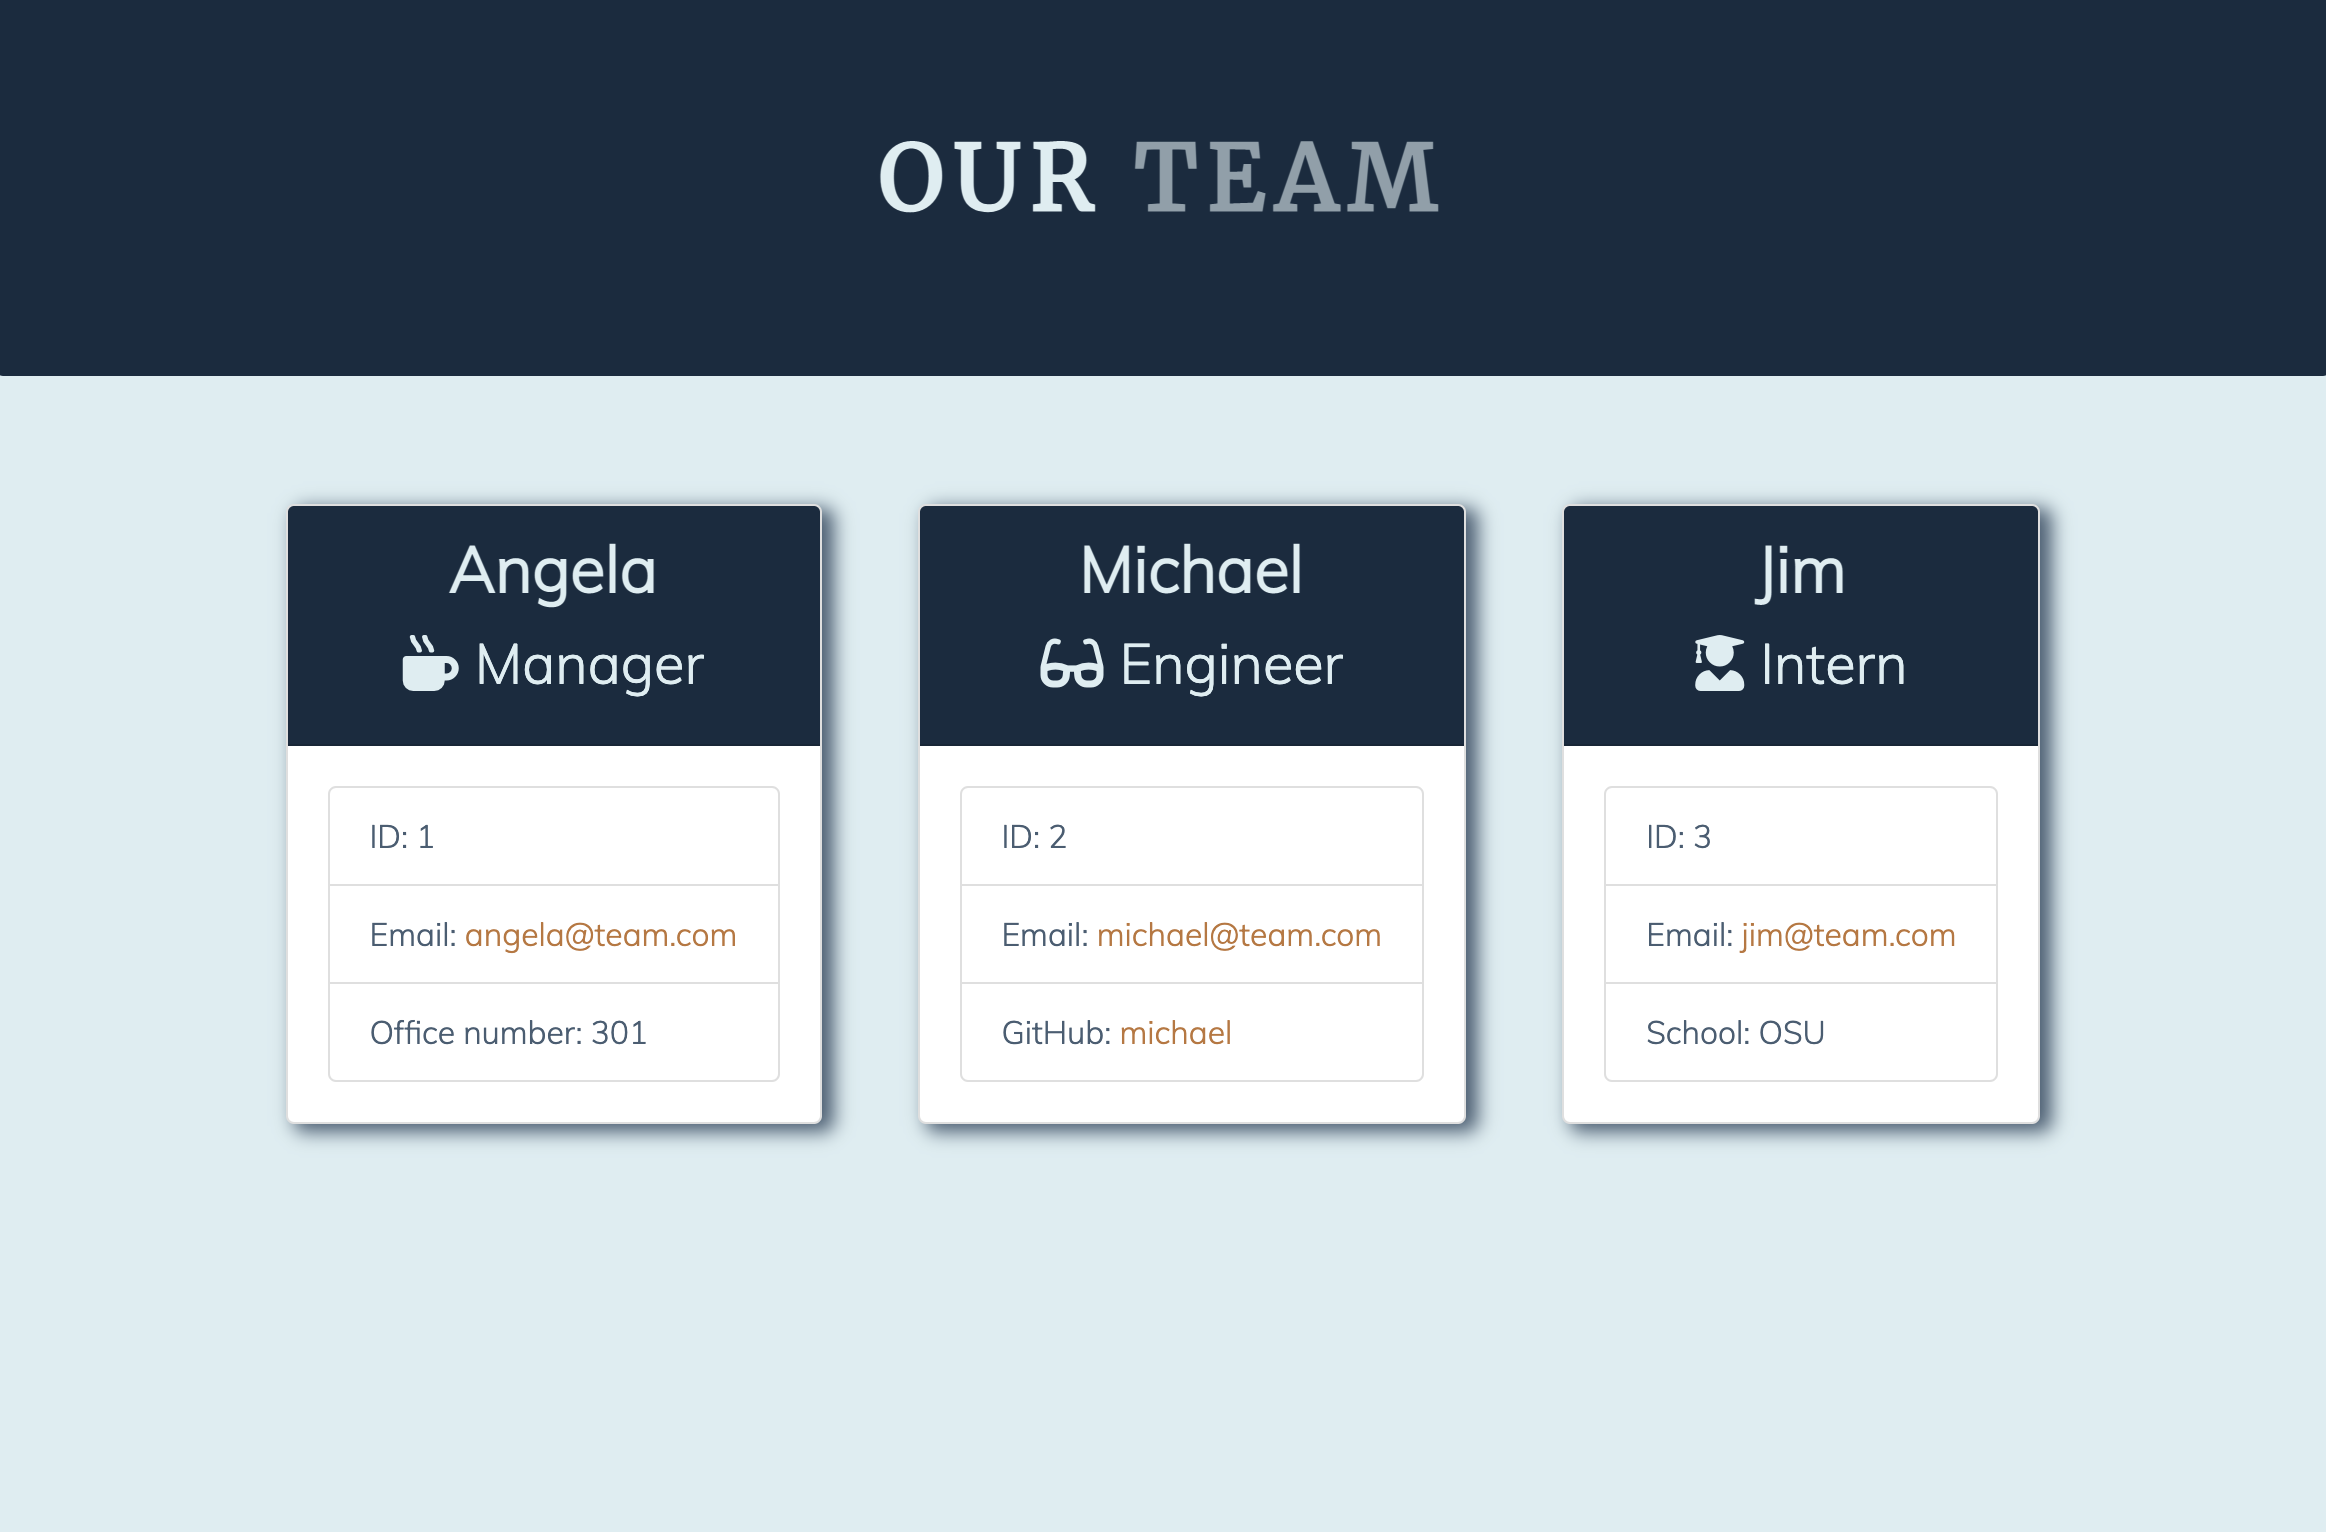
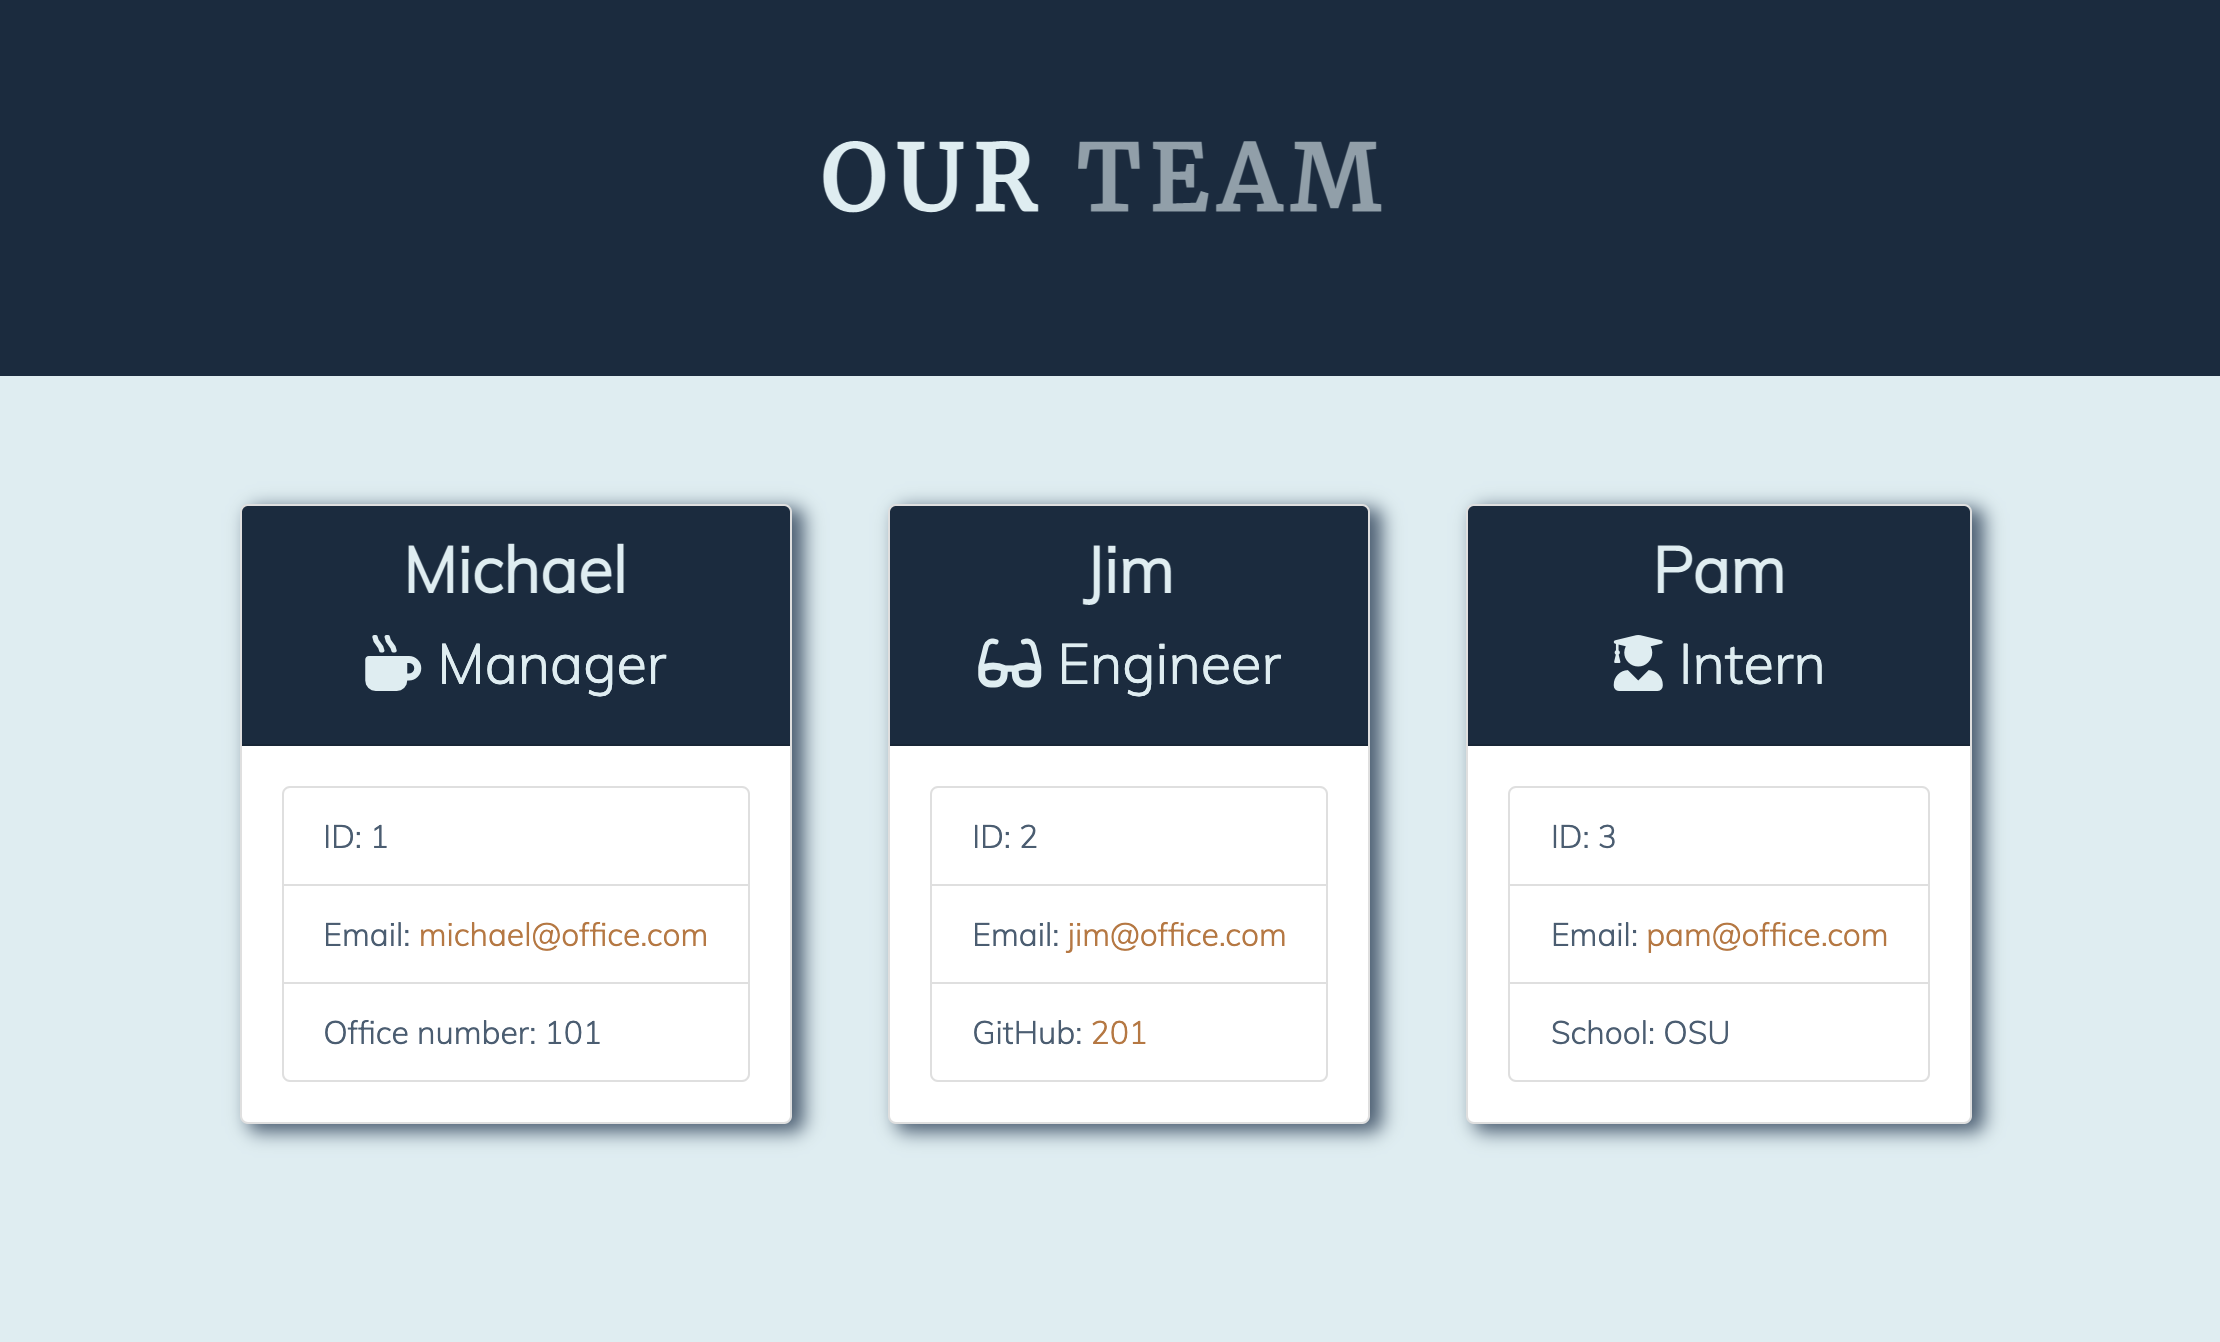
update readme with video demo and sample output

Changed region(s): [[0.0, 0.2444, 1.0, 0.8554], [0.373, 0.0917, 0.6216, 0.1833]]

diff --git a/output/team.html b/output/team.html
@@ -26,38 +26,38 @@
             <div class="team-area col-12 d-flex justify-content-center mt-5">
                 <div class="card employee-card mr-4 ml-4 mb-3">
     <div class="card-header text-center">
-        <h2 class="card-title">Angela</h2>
+        <h2 class="card-title">Michael</h2>
         <h3 class="card-title"><i class="fas fa-mug-hot mr-2"></i>Manager</h3>
     </div>
     <div class="card-body">
         <ul class="list-group">
             <li class="list-group-item">ID: 1</li>
-            <li class="list-group-item">Email: <a href="mailto:angela@team.com">angela@team.com</a></li>
-            <li class="list-group-item">Office number: 301</li>
-        </ul>
-    </div>
-</div><div class="card employee-card mr-4 ml-4 mb-3">
-    <div class="card-header text-center">
-        <h2 class="card-title">Michael</h2>
-        <h3 class="card-title"><i class="fas fa-glasses mr-2"></i>Engineer</h3>
-    </div>
-    <div class="card-body">
-        <ul class="list-group">
-            <li class="list-group-item">ID: 2</li>
-            <li class="list-group-item">Email: <a href="mailto:michael@team.com">michael@team.com</a></li>
-            <li class="list-group-item">GitHub: <a href="https://github.com/michael" target="_blank"
-                    rel="noopener noreferrer">michael</a></li>
+            <li class="list-group-item">Email: <a href="mailto:michael@office.com">michael@office.com</a></li>
+            <li class="list-group-item">Office number: 101</li>
         </ul>
     </div>
 </div><div class="card employee-card mr-4 ml-4 mb-3">
     <div class="card-header text-center">
         <h2 class="card-title">Jim</h2>
+        <h3 class="card-title"><i class="fas fa-glasses mr-2"></i>Engineer</h3>
+    </div>
+    <div class="card-body">
+        <ul class="list-group">
+            <li class="list-group-item">ID: 2</li>
+            <li class="list-group-item">Email: <a href="mailto:jim@office.com">jim@office.com</a></li>
+            <li class="list-group-item">GitHub: <a href="https://github.com/201" target="_blank"
+                    rel="noopener noreferrer">201</a></li>
+        </ul>
+    </div>
+</div><div class="card employee-card mr-4 ml-4 mb-3">
+    <div class="card-header text-center">
+        <h2 class="card-title">Pam</h2>
         <h3 class="card-title"><i class="fas fa-user-graduate mr-2"></i>Intern</h3>
     </div>
     <div class="card-body">
         <ul class="list-group">
             <li class="list-group-item">ID: 3</li>
-            <li class="list-group-item">Email: <a href="mailto:jim@team.com">jim@team.com</a></li>
+            <li class="list-group-item">Email: <a href="mailto:pam@office.com">pam@office.com</a></li>
             <li class="list-group-item">School: OSU</li>
         </ul>
     </div>

diff --git a/README.md b/README.md
@@ -37,7 +37,7 @@ A Node command-line application that uses inquirer and takes in information abou
   
   ![Sample Our Team Image](Assets/team-sample.png)
   
-* [Video Demo]()
+* [Video Demo](https://drive.google.com/file/d/1IJ66h3Nfno3LRM_ivrujQucSSFkvLCcp/view?usp=sharing)
 
 ## Features
 
